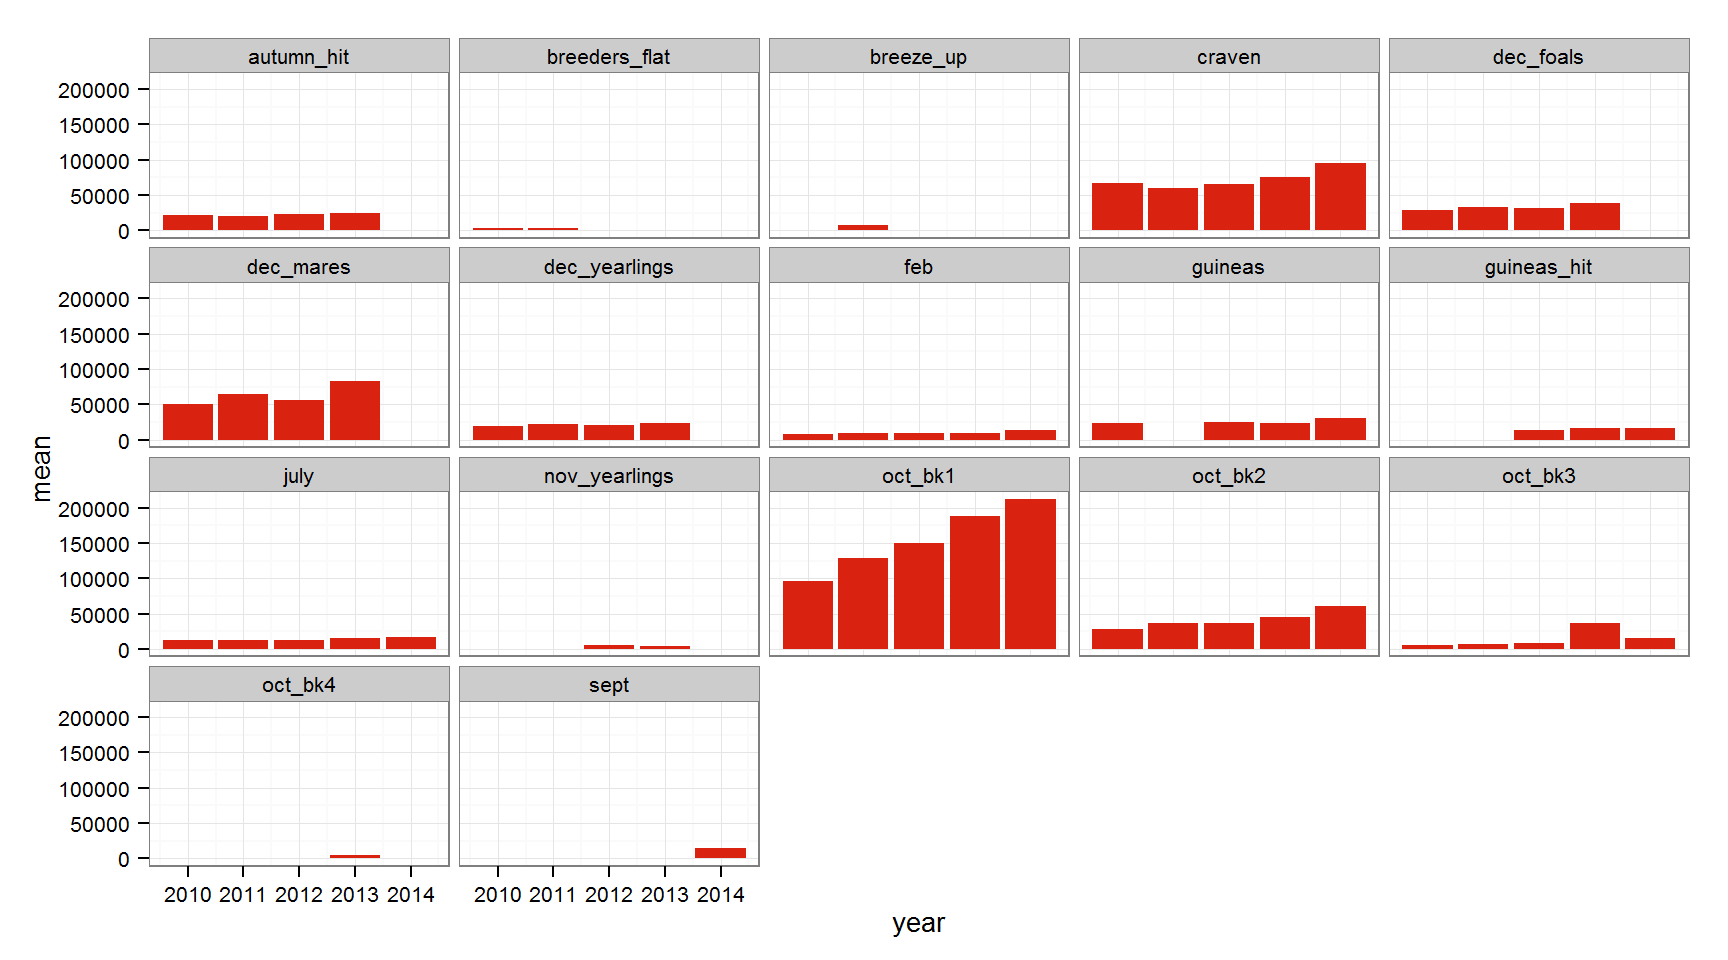
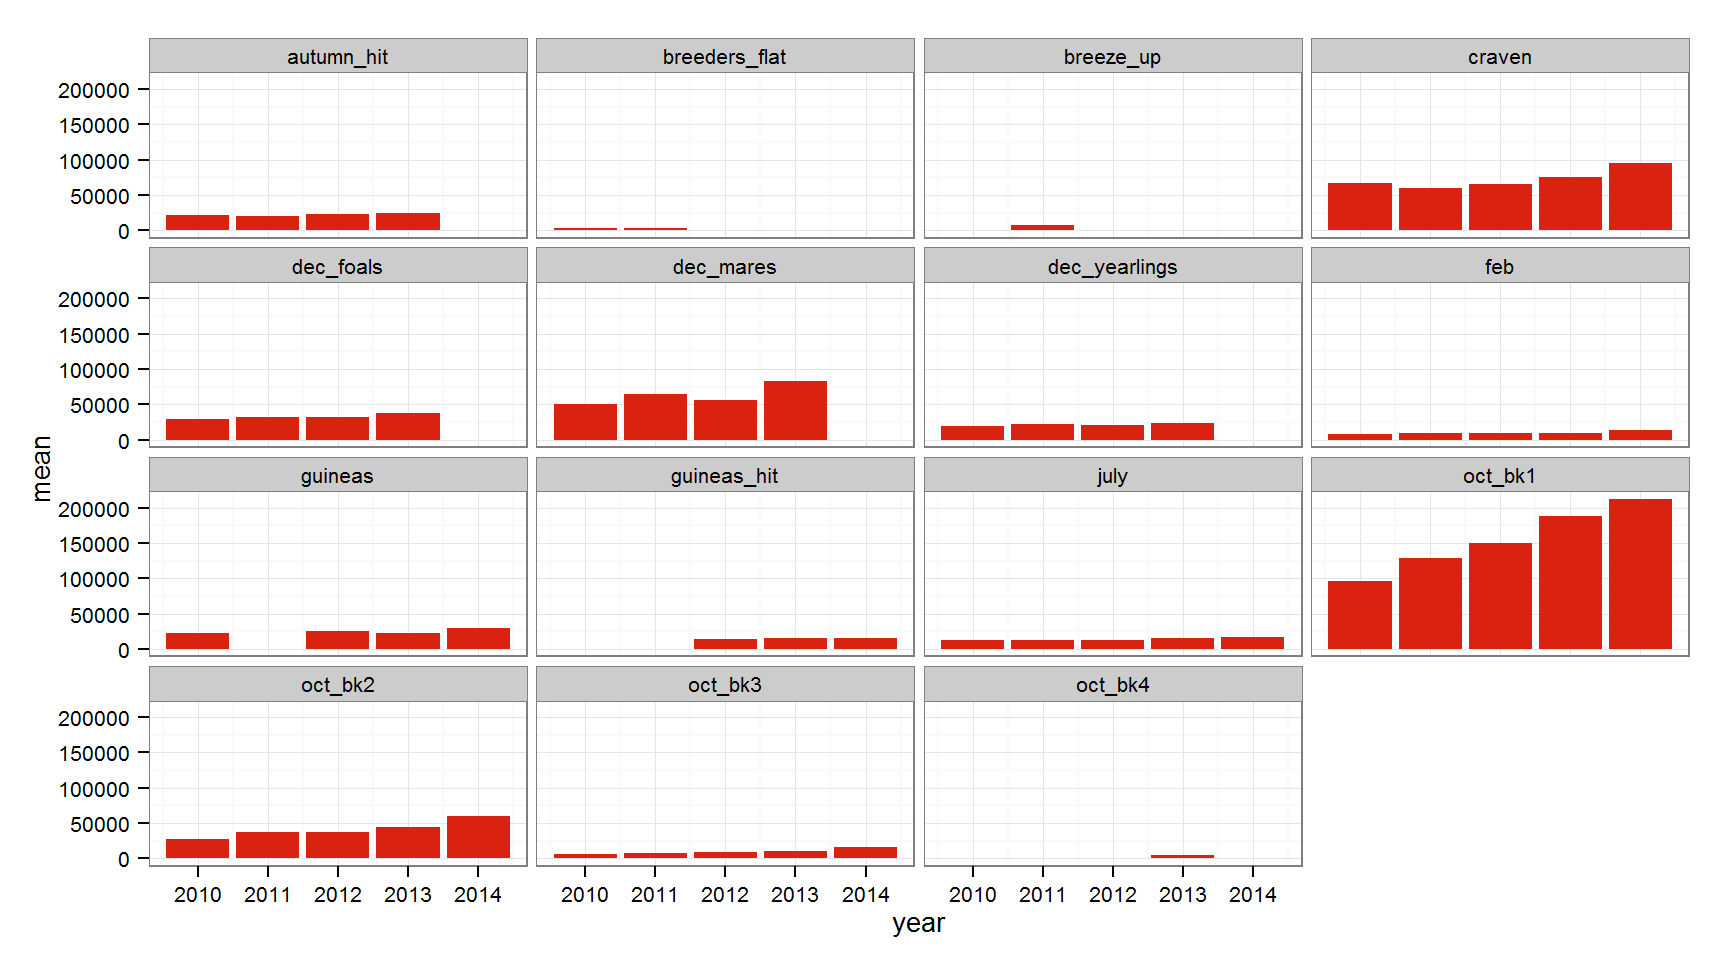
update docs to reflect changes in package

diff --git a/tattersalls.html b/tattersalls.html
@@ -146,7 +146,7 @@ code > span.er { color: #c3bf9f; }
 </div>
 
 
-<p>There are currently (as of 30/10/14) 5 datasets with Tattersalls sales data, these are:</p>
+<p>There are currently (as of 2014-11-24) 5 datasets with Tattersalls sales data, these are:</p>
 <table>
 <thead>
 <tr class="header">
@@ -158,28 +158,28 @@ code > span.er { color: #c3bf9f; }
 <tbody>
 <tr class="odd">
 <td align="left">tatts_2010</td>
-<td align="left"><sub>dec_mares, dec_foals, dec_yearlings, autumn_hit, breeders_flat, oct_bk3, oct_bk2, oct_bk1, sept, july, guineas, craven, feb</sub></td>
-<td align="left">8346 rows, 12 cols</td>
+<td align="left"><sub>feb, craven, guineas, july, oct_bk1, oct_bk2, oct_bk3, autumn_hit, breeders_flat, dec_yearlings, dec_foals, dec_mares</sub></td>
+<td align="left">7796 rows, 12 cols</td>
 </tr>
 <tr class="even">
 <td align="left">tatts_2011</td>
-<td align="left"><sub>dec_mares, dec_foals, dec_yearlings, autumn_hit, breeders_flat, oct_bk3, oct_bk2, oct_bk1, sept, july, breeze_up, craven, feb</sub></td>
-<td align="left">7488 rows, 12 cols</td>
+<td align="left"><sub>feb, craven, breeze_up, july, oct_bk1, oct_bk2, oct_bk3, autumn_hit, breeders_flat, dec_yearlings, dec_foals, dec_mares</sub></td>
+<td align="left">6946 rows, 12 cols</td>
 </tr>
 <tr class="odd">
 <td align="left">tatts_2012</td>
-<td align="left"><sub>dec_mares, dec_foals, dec_yearlings, nov_yearlings, autumn_hit, oct_bk3, oct_bk2, oct_bk1, sept, july, guineas_hit, guineas, craven, feb</sub></td>
-<td align="left">7739 rows, 12 cols</td>
+<td align="left"><sub>dec_mares, dec_foals, dec_yearlings, autumn_hit, oct_bk3, oct_bk2, oct_bk1, july, guineas_hit, guineas, craven, feb</sub></td>
+<td align="left">7101 rows, 12 cols</td>
 </tr>
 <tr class="even">
 <td align="left">tatts_2013</td>
-<td align="left"><sub>dec_mares, dec_foals, dec_yearlings, nov_yearlings, autumn_hit, oct_bk4, oct_bk3, oct_bk2, oct_bk1, sept, july, guineas_hit, guineas, craven, feb</sub></td>
-<td align="left">8867 rows, 12 cols</td>
+<td align="left"><sub>feb, craven, guineas, guineas_hit, july, oct_bk1, oct_bk2, oct_bk3, oct_bk4, autumn_hit, dec_yearlings, dec_foals, dec_mares</sub></td>
+<td align="left">7192 rows, 12 cols</td>
 </tr>
 <tr class="odd">
 <td align="left">tatts_2014</td>
-<td align="left"><sub>oct_bk1, oct_bk2, oct_bk3, sept, july, guineas_hit, guineas, craven, feb</sub></td>
-<td align="left">4064 rows, 12 cols</td>
+<td align="left"><sub>july, guineas, guineas_hit, craven, feb, oct_bk1, oct_bk2, oct_bk3</sub></td>
+<td align="left">3359 rows, 12 cols</td>
 </tr>
 </tbody>
 </table>
@@ -196,7 +196,7 @@ code > span.er { color: #c3bf9f; }
 tattersalls &lt;-<span class="st"> </span><span class="kw">rbind</span>(tatts_2010, tatts_2011, tatts_2012, tatts_2013, tatts_2014)
 <span class="co"># clean workspace</span>
 <span class="kw">rm</span>(tatts_2010, tatts_2011, tatts_2012, tatts_2013, tatts_2014)</code></pre>
-<p>The new <code>tattersalls</code> dataset has 34311 rows and 12 columns, the <code>sale_name</code> variable can serve as an individual sale (so it includes the year of the sale, eg. <strong>feb_2010</strong>), while the <code>sale</code> variable will match across multiple years.</p>
+<p>The new <code>tattersalls</code> dataset has 32394 rows and 12 columns, the <code>sale_name</code> variable can serve as an individual sale (so it includes the year of the sale, eg. <strong>feb_2010</strong>), while the <code>sale</code> variable will match across multiple years.</p>
 <p>Loading other libraries <code>dplyr</code> and <code>ggplot2</code> we can quickly analyse data:</p>
 <pre class="sourceCode r"><code class="sourceCode r"><span class="kw">library</span>(dplyr)
 <span class="kw">library</span>(ggplot2)</code></pre>
@@ -227,26 +227,26 @@ tattersalls &lt;-<span class="st"> </span><span class="kw">rbind</span>(tatts_20
 <pre><code>## Source: local data frame [20 x 6]
 ## 
 ##                       sire   n      mean        sd   min     max
-## 1      sea the stars (ire) 140 224100.92 153564.74 16000  650000
-## 2            galileo (ire) 517 221113.08 422710.12   800 5000000
-## 3           danehill (usa)  50 126065.12 387885.12  2000 2400000
-## 4       new approach (ire) 213 115085.23 112242.00  2500  600000
-## 5            montjeu (ire) 295 109844.84 160582.97   800  850000
-## 6     sadler&#39;s wells (usa) 140 104800.88 212350.10  1000 1700000
-## 7             dubawi (ire) 349  99800.00 172610.52   800 1600000
-## 8             monsun (ger)  75  96396.67 113962.25  2000  600000
-## 9         oasis dream (gb) 529  95668.03 146239.91   800 1100000
-## 10      fastnet rock (aus) 141  90769.91  84839.98  4000  540000
-## 11            dansili (gb) 394  86534.67 191951.69   800 2700000
-## 12 invincible spirit (ire) 599  82369.38 132773.44   800 2100000
-## 13   danehill dancer (ire) 468  80064.41 229364.46   800 4000000
-## 14      raven&#39;s pass (usa) 130  78780.34 101886.66   800  800000
-## 15            pivotal (gb) 562  74053.33 236658.18   800 4700000
-## 16       dream ahead (usa)  57  73340.00  77357.27  3000  400000
-## 17       poet&#39;s voice (gb)  77  73014.49  90171.49  3500  525000
-## 18         shamardal (usa) 446  70400.29 120847.71   800 1700000
-## 19    rip van winkle (ire) 133  69230.43  62506.29  4000  400000
-## 20              arch (usa)  80  67898.31  82438.42  2000  300000</code></pre>
+## 1            galileo (ire) 468 232839.89 437553.44   800 5000000
+## 2      sea the stars (ire) 135 228273.58 153669.31 16000  650000
+## 3       new approach (ire) 198 118050.60 113471.13  2500  600000
+## 4            montjeu (ire) 257 116878.68 165270.79   800  850000
+## 5     sadler&#39;s wells (usa) 128 110720.59 222354.19  1000 1700000
+## 6             dubawi (ire) 319 104496.25 177682.27   800 1600000
+## 7         oasis dream (gb) 449 104113.61 154020.86   800 1100000
+## 8       fastnet rock (aus) 124  94277.23  87510.47  4000  540000
+## 9             monsun (ger)  63  89016.00  94988.28  2000  400000
+## 10      raven&#39;s pass (usa) 116  84393.20 106863.52  3000  800000
+## 11 invincible spirit (ire) 519  81189.90  94453.87   800  680000
+## 12   danehill dancer (ire) 413  81165.06 238670.67   800 4000000
+## 13            dansili (gb) 321  80624.90 124738.21   800 1200000
+## 14        street cry (ire)  89  75665.08 142388.11  1000 1000000
+## 15      lope de vega (ire)  66  75203.39 104064.43  1000  650000
+## 16         shamardal (usa) 398  75127.16 125686.99   800 1700000
+## 17       dream ahead (usa)  56  74530.61  77694.68  3000  400000
+## 18       poet&#39;s voice (gb)  76  73397.06  90785.48  3500  525000
+## 19              arch (usa)  69  71660.00  85244.99  2000  300000
+## 20    rip van winkle (ire) 107  70181.32  64477.58  4000  400000</code></pre>
 <p><strong>Sea The Stars</strong> is top of the list, his progeny costing a cool 224,100 Guineas on average, Galileo is a very close second, with a large drop down, of almost 100,000 Guineas, to Danehill. Perhaps more interesting than Sea The Stars topping Galileo is the <em>standard deviation</em> of their prices, Sea The Stars with a much smaller <strong>sd</strong> perhaps suggests buyers believe his progeny will prove to be successful (see Taghrooda), but are still showing some restraint and aren’t quite willing to part with the big sums seen with Galileo, whose most expensive sale fetched 9 times the most expensive Sea The Stars sale.</p>
 <p>It’s also possible to look at the buyers or agents with the highest average price paid over the 5years.</p>
 <pre class="sourceCode r"><code class="sourceCode r">tattersalls %&gt;%
@@ -263,25 +263,25 @@ tattersalls &lt;-<span class="st"> </span><span class="kw">rbind</span>(tatts_20
 ## 
 ##                            buyer   n      mean        sd   min     max
 ## 1                   demi o&#39;byrne  50 344060.00 267094.37  6000 1300000
-## 2       john ferguson bloodstock 291 217340.21 305347.10 25000 4000000
-## 3            j warren bloodstock  92 163744.57 144386.32 16500  680000
-## 4        shadwell estate company 250 163488.00 130553.20 35000 1100000
-## 5     c gordon-watson bloodstock 270 149084.44 190080.48   800 1700000
-## 6           mccalmont bloodstock  51 130774.51 219594.75  6500 1150000
-## 7             cheveley park stud  61 122098.36 104013.89 32000  535000
-## 8       david redvers bloodstock 197 121993.40 225457.93  5000 2500000
-## 9         john warren bloodstock  93 118645.16  95735.10 11000  600000
-## 10                  dwayne woods  60  95391.67  78483.30  3000  450000
-## 11          blandford bloodstock 430  79854.88 103871.98   800  925000
-## 12             mrs a skiffington  57  79289.47  78058.53  3000  400000
-## 13     richard frisby bloodstock  86  74308.14  84808.23  2000  370000
-## 14 peter &amp; ross doyle bloodstock 388  72782.73  77984.78   800  800000
-## 15     anthony stroud bloodstock 212  71264.15  68030.93   800  380000
-## 16     brian grassick bloodstock  50  67214.00  62857.31  2200  360000
-## 17     stephen hillen bloodstock 173  66624.28 166552.07  3000 2100000
-## 18         hugo merry bloodstock 142  66446.48  88738.11  1700  675000
-## 19               jeremy brummitt  64  64257.81  79608.57  6500  475000
-## 20               sackvilledonald 220  61468.18  55066.49  2500  460000</code></pre>
+## 2       john ferguson bloodstock 289 217788.93 306356.89 25000 4000000
+## 3            j warren bloodstock  83 175728.92 147062.25 16500  680000
+## 4        shadwell estate company 223 171502.24 135652.44 35000 1100000
+## 5     c gordon-watson bloodstock 255 152979.61 194525.69   800 1700000
+## 6       david redvers bloodstock 187 124661.50 231037.29  5000 2500000
+## 7         john warren bloodstock  93 118645.16  95735.10 11000  600000
+## 8                   dwayne woods  59  95652.54  79130.74  3000  450000
+## 9           blandford bloodstock 415  81112.29 105464.53   800  925000
+## 10             mrs a skiffington  54  80138.89  79756.61  3000  400000
+## 11     richard frisby bloodstock  83  75716.87  86007.98  2000  370000
+## 12     anthony stroud bloodstock 200  71845.00  69454.76   800  380000
+## 13 peter &amp; ross doyle bloodstock 340  71655.00  80123.82   800  800000
+## 14               jeremy brummitt  54  69175.93  85540.96  6500  475000
+## 15     stephen hillen bloodstock 160  66943.75 172907.06  3000 2100000
+## 16         hugo merry bloodstock 138  65771.01  89668.89  1700  675000
+## 17               sackvilledonald 180  65169.44  59202.64  2500  460000
+## 18  kern/lillingston association 125  56936.00  70994.03  3800  460000
+## 19                   bba ireland 539  55816.14 212148.72   800 4700000
+## 20             rabbah bloodstock 392  47691.33  42346.02  5000  500000</code></pre>
 <p>Demi O’Byrne (an agent associated with Coolmore) isn’t as active as others in the top 5, with just 50 purchases, but the average price he pays is almost double that of John Ferguson (links with Godolphin).</p>
 </div>
 
